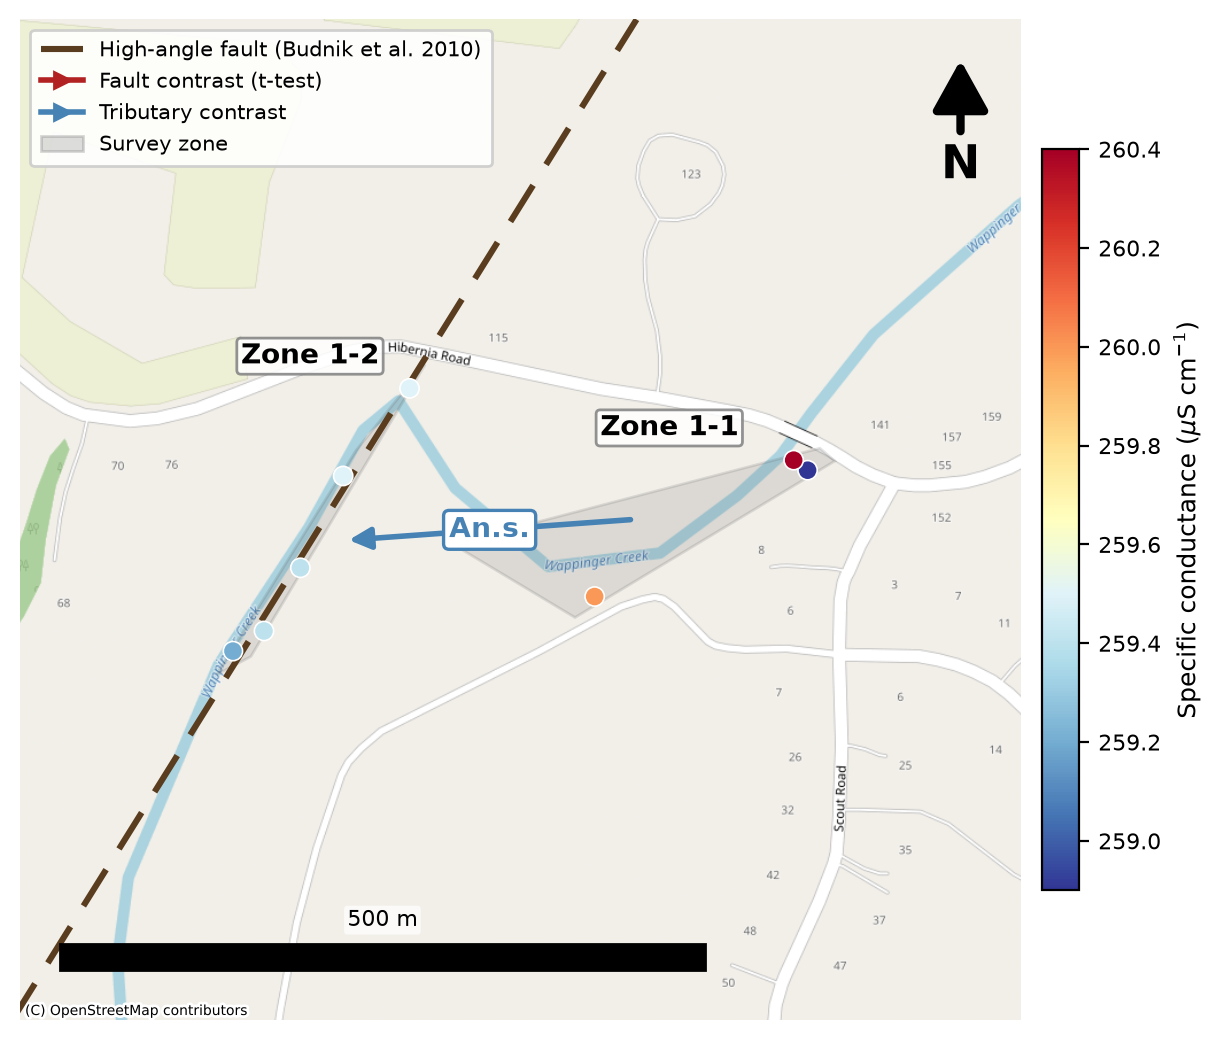
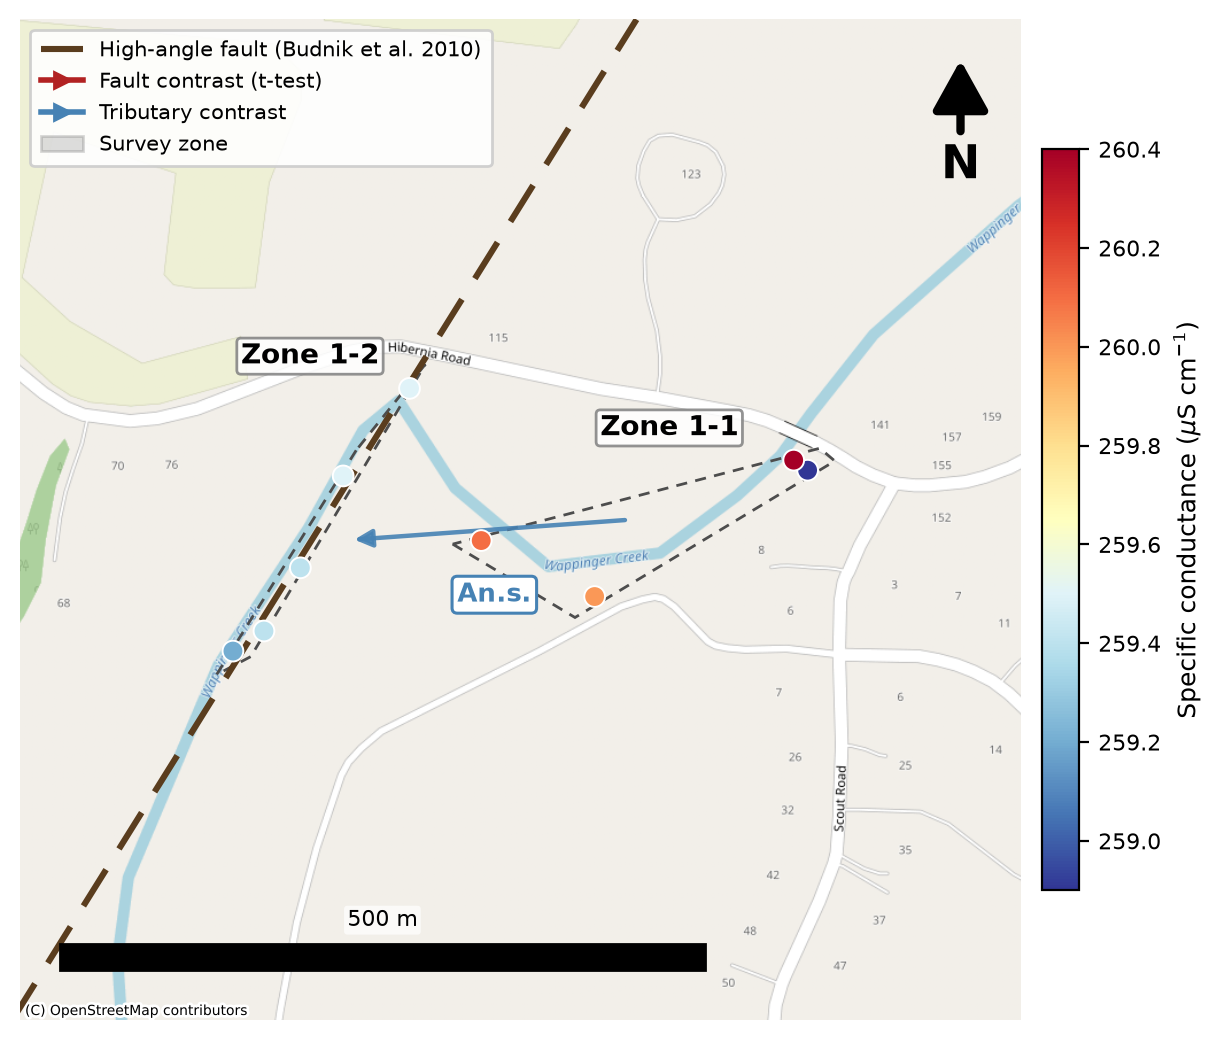
Declutter site maps and simplify the overview with faults
Site maps:
- Data points now render on top (higher z-order, larger); contrast arrows drop
  beneath them and their labels offset to the side, so points stay visible
  (fixes Site 3 crowding)
- Survey zones drawn as thin dashed outlines (no fill) instead of shaded hulls

Overview:
- Removed individual survey points and colour bar; now just the three site
  boxes + regional fault traces on a colour basemap (simpler, easier to read)
- Fault traces located from each site's InFault GPS points and extended along
  the fitted strike, so they pass exactly through the site boxes. Raster
  digitization of the 1:340k Budnik figure was rejected (multi-km georeferencing
  error at overview scale); a data/faults_budnik2010.csv can override if
  hand-digitized county traces are supplied later.

diff --git a/src/maps.py b/src/maps.py
@@ -10,9 +10,12 @@ Fault handling (hybrid, per the project decision):
   * Site maps -- the fault is anchored to this site's ``InFault`` survey points
     (where the crossing was actually observed in the field), attributed to
     Budnik et al. 2010.
-  * Overview -- the regional faults are digitized from Budnik et al. 2010
-    Fig. 3.10 (``data/faults_budnik2010.csv``); county-scale precision is
-    appropriate there.
+  * Overview -- one fault trace per site, located from that site's ``InFault``
+    GPS points and extended along the fitted strike (see ``site_fault_lines``).
+    This pins each Budnik-mapped crossing precisely, rather than tracing the
+    1:340,000 county figure (whose raster georeferencing carries multi-km error
+    at overview scale). To use hand-digitized county traces instead, drop a
+    ``data/faults_budnik2010.csv`` (columns: fault_id, lon, lat) and it wins.
 
 Run:  .venv/bin/python src/maps.py
 """
@@ -126,8 +129,9 @@ def _zone_patch(ax, xs, ys, pad):
     d = poly - c
     n = np.linalg.norm(d, axis=1, keepdims=True)
     poly = poly + d / np.maximum(n, 1e-9) * pad  # push vertices out by `pad`
-    ax.add_patch(MplPolygon(poly, closed=True, facecolor="0.35", alpha=0.14,
-                            edgecolor="0.25", lw=1.0, zorder=3))
+    # Outline-only (no fill) so the data points are never obscured.
+    ax.add_patch(MplPolygon(poly, closed=True, facecolor="none",
+                            edgecolor="0.30", lw=1.0, ls=(0, (4, 3)), zorder=2))
 
 
 def _fault_line(ax, fault_pts, cx0, cy0, half):
@@ -192,21 +196,29 @@ def draw_site(site, df, zframes, welch):
         fr = zframes[z]
         xs, ys = zip(*[merc(lo, la) for lo, la in zip(fr["lon"], fr["lat"])])
         ax.scatter(xs, ys, c=fr["EC"].to_numpy(dtype=float), cmap=EC_CMAP,
-                   norm=norm, s=48, edgecolor="white", linewidth=0.6, zorder=5)
+                   norm=norm, s=56, edgecolor="white", linewidth=0.7, zorder=6)
 
-    # contrast arrows (fault = red, tributary = blue) with Welch significance
+    # contrast arrows (fault = red, tributary = blue) with Welch significance;
+    # drawn UNDER the data points so the points stay visible.
     for name, a, b, kind in CONTRASTS:
         if a in centroids and b in centroids:
             (xa, ya), (xb, yb) = centroids[a], centroids[b]
             color = "firebrick" if kind == "fault" else "steelblue"
             ax.add_patch(FancyArrowPatch((xa, ya), (xb, yb), arrowstyle="-|>",
-                                         mutation_scale=16, color=color, lw=2,
-                                         zorder=7, shrinkA=14, shrinkB=14))
+                                         mutation_scale=13, color=color, lw=1.6,
+                                         zorder=4, shrinkA=16, shrinkB=16,
+                                         alpha=0.9))
             sig = "*" if welch[name] < 0.05 else "n.s."
-            ax.text((xa + xb) / 2, (ya + yb) / 2, f"{name}{sig}", color=color,
-                    fontsize=10, fontweight="bold", zorder=8, ha="center",
-                    va="center", bbox=dict(boxstyle="round,pad=0.2", fc="white",
-                                           ec=color, lw=1.2))
+            # place the label offset perpendicular to the arrow, off the points
+            dx, dy = xb - xa, yb - ya
+            L = math.hypot(dx, dy) or 1.0
+            ox, oy = -dy / L, dx / L
+            off = half * 0.13
+            ax.text((xa + xb) / 2 + ox * off, (ya + yb) / 2 + oy * off,
+                    f"{name}{sig}", color=color, fontsize=9.5, fontweight="bold",
+                    zorder=8, ha="center", va="center",
+                    bbox=dict(boxstyle="round,pad=0.2", fc="white", ec=color,
+                              lw=1.1))
 
     _decorate(ax, fig, cx0, cy0, half, clat, norm, has_fault)
     fig.tight_layout(pad=0.3)
@@ -243,8 +255,18 @@ def _decorate(ax, fig, cx0, cy0, half, clat, norm, has_fault):
               framealpha=0.9, borderpad=0.5).set_zorder(9)
 
 
+def merc_inv(x, y):
+    r = 6378137.0
+    return math.degrees(x / r), cy_to_lat(y)
+
+
 def load_budnik_faults():
-    """Load digitized Budnik Fig 3.10 fault polylines, if present."""
+    """Load digitized Budnik Fig 3.10 fault polylines from CSV, if supplied.
+
+    Optional override: if ``data/faults_budnik2010.csv`` exists (columns
+    fault_id, lon, lat), those polylines are used verbatim. Otherwise the
+    overview faults are derived from the survey (see :func:`site_fault_lines`).
+    """
     path = DATA / "faults_budnik2010.csv"
     if not path.exists():
         return {}
@@ -256,8 +278,41 @@ def load_budnik_faults():
     return faults
 
 
+def site_fault_lines(df, zframes, extend_m=2600):
+    """Fault trace per site, located from that site's ``InFault`` GPS points.
+
+    The crossing position and local strike come from the field survey (real
+    coordinates); the line is extended ``extend_m`` past the outermost fault
+    point along the fitted strike so it reads as a regional trace. These are
+    the high-angle faults mapped by Budnik et al. (2010); the survey points
+    pin their creek crossings precisely.
+    """
+    import pandas as pd
+
+    lines = {}
+    for site, zs in SITE_ZONES.items():
+        sp = pd.concat([zframes[z] for z in zs])
+        fp = sp[sp["InFault"] == "yes"]
+        if len(fp) < 2:
+            continue
+        pts = np.array([merc(lo, la) for lo, la in zip(fp["lon"], fp["lat"])])
+        c = pts.mean(axis=0)
+        # principal direction (first PCA eigenvector) = local fault strike
+        _, _, vt = np.linalg.svd(pts - c)
+        d = vt[0]
+        t = (pts - c) @ d
+        p0 = c + d * (t.min() - extend_m)
+        p1 = c + d * (t.max() + extend_m)
+        lines[f"site{site}"] = [merc_inv(*p0), merc_inv(*p1)]
+    return lines
+
+
 def draw_overview(df, zframes):
-    """Regional overview (Figure 1): all three sites + digitized faults."""
+    """Regional overview (Figure 1): just the three site boxes + regional faults.
+
+    Deliberately simple -- no individual survey points or colour bar -- so the
+    reader can see where the sites sit relative to the mapped fault network.
+    """
     import pandas as pd
     pts = df.dropna(subset=["lat", "lon"])
     xs, ys = zip(*[merc(lo, la) for lo, la in zip(pts["lon"], pts["lat"])])
@@ -271,27 +326,9 @@ def draw_overview(df, zframes):
     ax.set_ylim(cy0 - half, cy0 + half)
     ax.set_aspect("equal")
 
-    ec_all = pts["EC"].to_numpy(dtype=float)
-    norm = Normalize(vmin=ec_all.min(), vmax=ec_all.max())
-
-    for site, zs in SITE_ZONES.items():
-        sp = pd.concat([zframes[z] for z in zs])
-        sx, sy = zip(*[merc(lo, la) for lo, la in zip(sp["lon"], sp["lat"])])
-        sx, sy = np.array(sx), np.array(sy)
-        pad = half * 0.04
-        ax.add_patch(plt.Rectangle((sx.min() - pad, sy.min() - pad),
-                                   np.ptp(sx) + 2 * pad, np.ptp(sy) + 2 * pad,
-                                   fill=False, edgecolor="black", lw=1.0,
-                                   linestyle=(0, (5, 4)), zorder=6))
-        ax.annotate(f"Site {site}", (sx.mean(), sy.max() + pad),
-                    textcoords="offset points", xytext=(0, 6), ha="center",
-                    fontsize=12, fontweight="bold", zorder=7,
-                    bbox=dict(boxstyle="round,pad=0.15", fc="white", ec="0.5",
-                              alpha=0.85))
-
     add_basemap_safe(ax)
 
-    faults = load_budnik_faults()
+    faults = load_budnik_faults() or site_fault_lines(df, zframes)
     for i, (fid, coords) in enumerate(faults.items()):
         fx, fy = zip(*[merc(lo, la) for lo, la in coords])
         ax.plot(fx, fy, color="#5a3d1e", lw=1.8, ls=(0, (7, 4)), zorder=4,
@@ -300,19 +337,24 @@ def draw_overview(df, zframes):
     for site, zs in SITE_ZONES.items():
         sp = pd.concat([zframes[z] for z in zs])
         sx, sy = zip(*[merc(lo, la) for lo, la in zip(sp["lon"], sp["lat"])])
-        ax.scatter(sx, sy, c=sp["EC"].to_numpy(dtype=float), cmap=EC_CMAP,
-                   norm=norm, s=24, edgecolor="white", linewidth=0.35, zorder=5)
+        sx, sy = np.array(sx), np.array(sy)
+        pad = half * 0.05
+        ax.add_patch(plt.Rectangle((sx.min() - pad, sy.min() - pad),
+                                   np.ptp(sx) + 2 * pad, np.ptp(sy) + 2 * pad,
+                                   fill=False, edgecolor="black", lw=1.6,
+                                   zorder=6))
+        ax.annotate(f"Site {site}", (sx.mean(), sy.max() + pad),
+                    textcoords="offset points", xytext=(0, 7), ha="center",
+                    fontsize=13, fontweight="bold", zorder=7,
+                    bbox=dict(boxstyle="round,pad=0.2", fc="white", ec="0.4",
+                              alpha=0.9))
 
     add_scalebar(ax, cx0 - half * 0.92, cy0 - half * 0.92,
                  _round_scale(half * math.cos(math.radians(clat))), clat)
     north_arrow(ax)
     ax.set_axis_off()
-    sm = ScalarMappable(norm=norm, cmap=EC_CMAP)
-    cb = fig.colorbar(sm, ax=ax, fraction=0.035, pad=0.02)
-    cb.set_label(r"Specific conductance ($\mu$S cm$^{-1}$)", fontsize=9)
-    cb.ax.tick_params(labelsize=8)
     if faults:
-        ax.legend(loc="upper left", fontsize=8, framealpha=0.9).set_zorder(9)
+        ax.legend(loc="upper left", fontsize=8.5, framealpha=0.9).set_zorder(9)
     fig.tight_layout(pad=0.3)
     out = FIG / "overview.png"
     fig.savefig(out, dpi=200, bbox_inches="tight")
